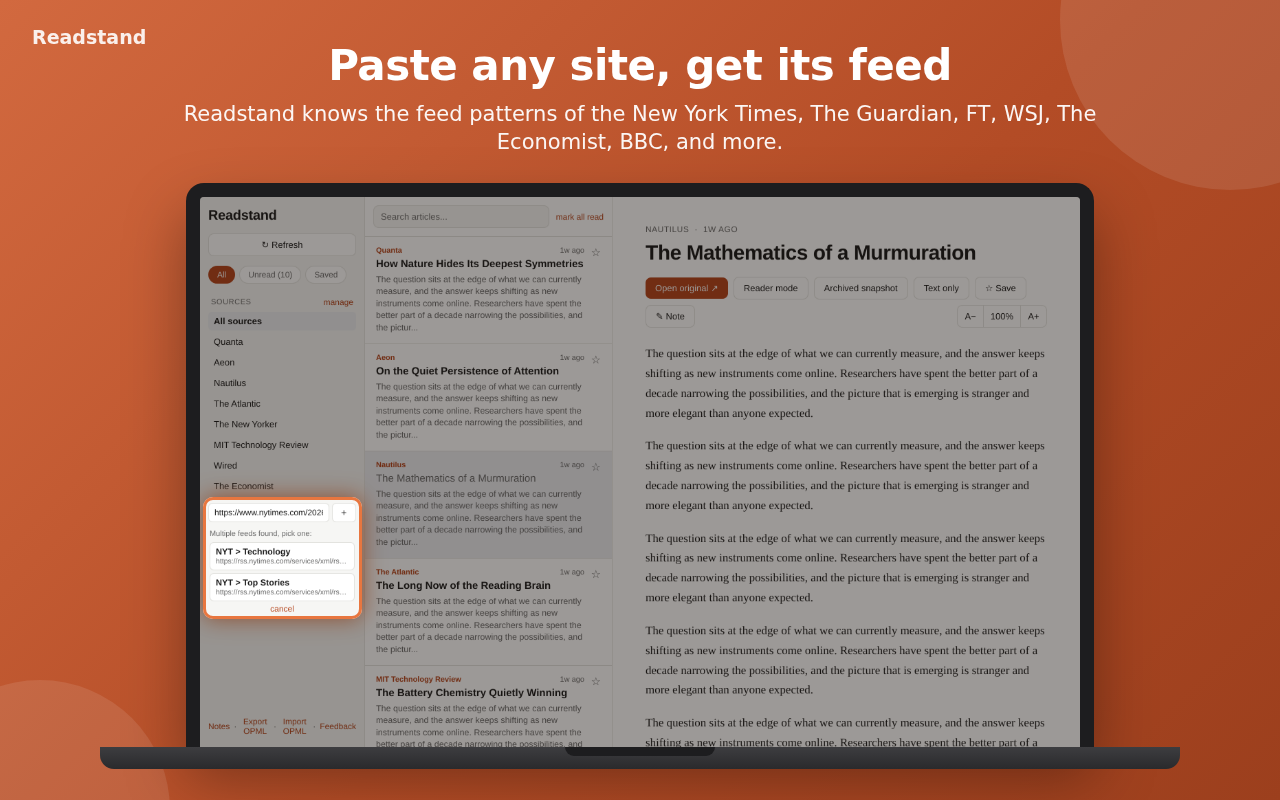
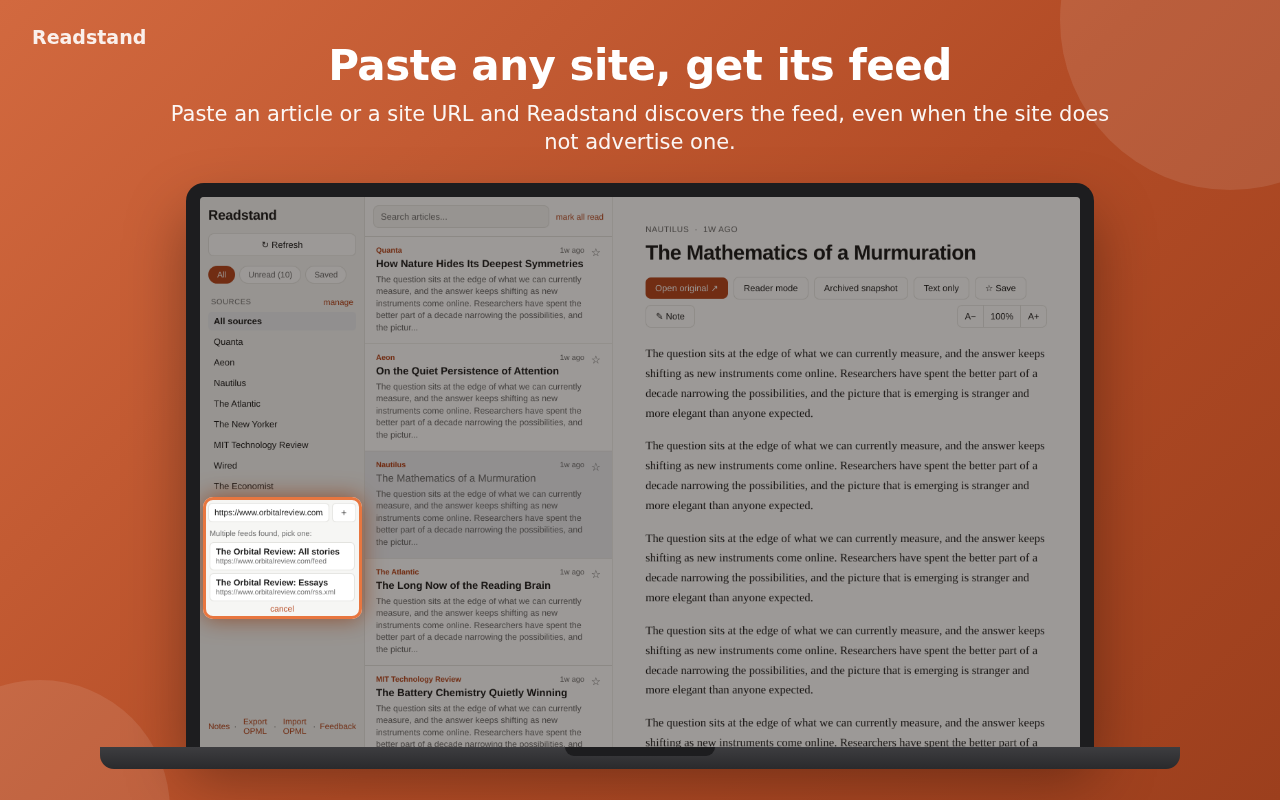
Store copy: drop third-party brand names after keyword-spam rejection

Changed region(s): [[0.125, 0.125, 0.875, 0.1875], [0.1562, 0.6875, 0.2812, 0.75], [0.2188, 0.625, 0.25, 0.6562]]

diff --git a/docs/PUBLISHING.md b/docs/PUBLISHING.md
@@ -35,12 +35,17 @@ Load `dist/` at `chrome://extensions` (Developer mode, Load unpacked). Confirm:
 - Reader mode, highlights/notes, and Open original all work.
 
 ## Chrome Web Store
-Status: v0.1.0 was submitted 2026-07-20 (non-trader account, category
-Productivity > Education, remote code: no). Superseded: cancel that review in
-the dev console (the item page has a Cancel review action), replace the package
-with `readstand-0.1.1.zip` and the two old screenshots with the five
-`store/screenshot-*.png` carousel slides, and resubmit. On approval, add the
-listing URL to the README, the press-kit posts, and this file.
+Status: REJECTED 2026-07-21 for Keyword Spam (violation ref "Yellow Argon"):
+the detailed description enumerated publisher brand names. Fixed 2026-07-22 by
+removing every brand name from `store/listing.md` and from the screenshot
+captions (slide 5 now demos discovery with a fictional magazine). To resubmit:
+in the dev console, upload `readstand-0.1.1.zip` as the package, paste the
+revised detailed description from `store/listing.md`, replace all screenshots
+with the five current `store/screenshot-*.png` slides, and submit. Account
+details: non-trader, category Productivity > Education, remote code: no. Keep
+store copy free of third-party brand names; the README is not store metadata
+and may keep its publisher table. On approval, add the listing URL to the
+README, the press-kit posts, and this file.
 
 1. Go to https://chrome.google.com/webstore/devconsole and register ($5).
 2. New item. Upload the release asset `readstand-<version>.zip` (root contains `manifest.json`).

diff --git a/store/listing.md b/store/listing.md
@@ -22,7 +22,7 @@ what you see. Everything is stored locally on your device.
 Read
 - Unified timeline across every feed you follow, newest first
 - Filter by All, Unread, or Saved, narrow to a single source, and search across everything
-- Reader mode that extracts the clean article from a page, like Firefox or Safari Reader View
+- Reader mode that extracts the clean article from a page, like your browser's built-in reader view
 - Archived-snapshot fallback (archive.today) for dead links and pages that will not load
 - Text-only toggle and adjustable text size for distraction-free reading
 - Continue reading: Readstand remembers how far you got and lets you pick up where you left off
@@ -30,11 +30,11 @@ Read
 Keep what you learn
 - Highlight any sentence to save it
 - Jot quick Learned or To-read notes, linked to the article
-- Export every note and highlight to a Markdown file, ready for Obsidian or any notes app
+- Export every note and highlight to a Markdown file, ready for any notes app
 
 Subscribe to anything
 - Paste a site, a post, or a feed URL and Readstand finds the feed
-- Knows the feed patterns for big publishers (New York Times, The Guardian, Financial Times, WSJ, The Economist, Bloomberg, BBC, and more)
+- Understands the URL patterns large news publishers use, so pasting an article usually finds the matching section feed
 - Auto-refresh badges the toolbar icon with the number of new posts
 - OPML import and export, light and dark themes that follow your system
 